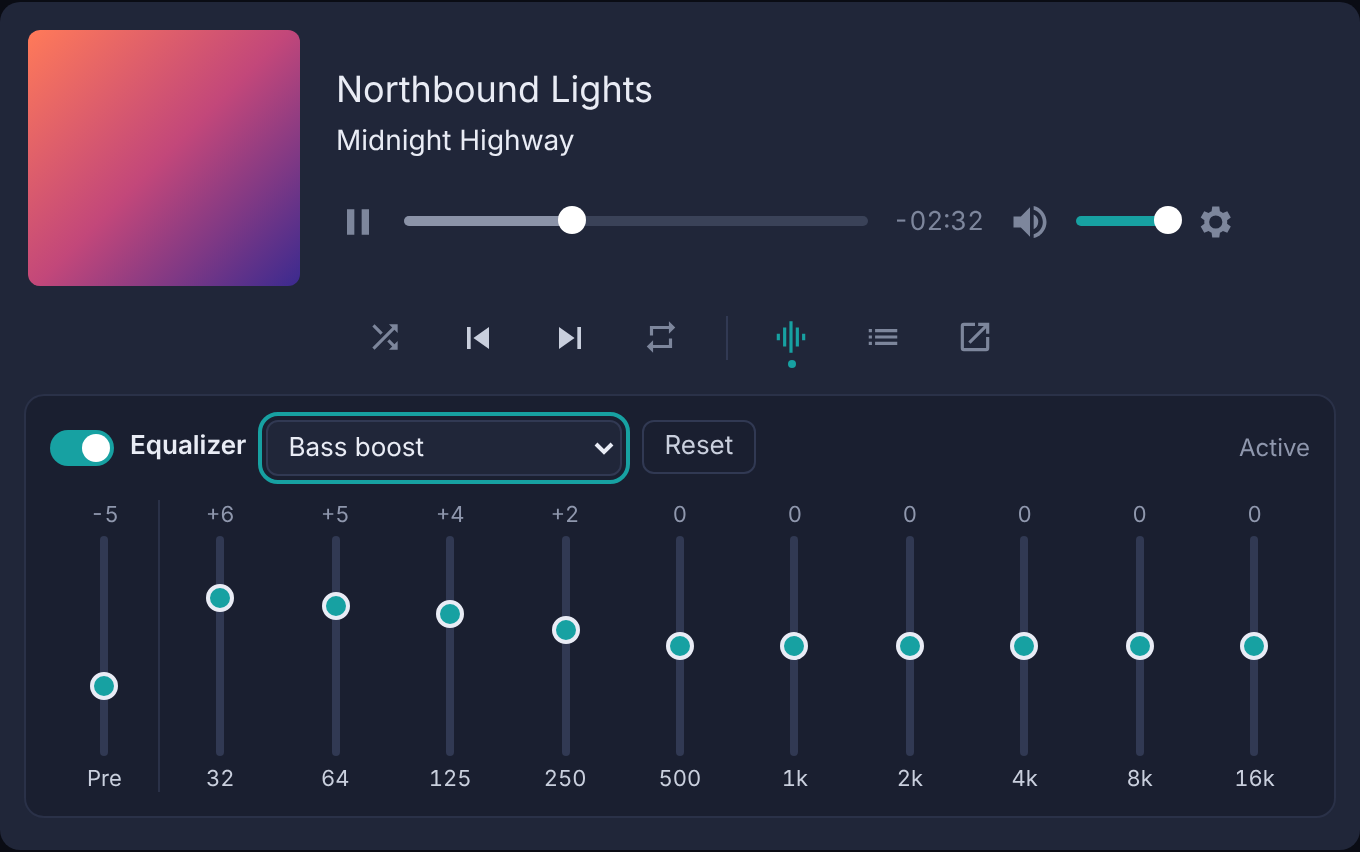
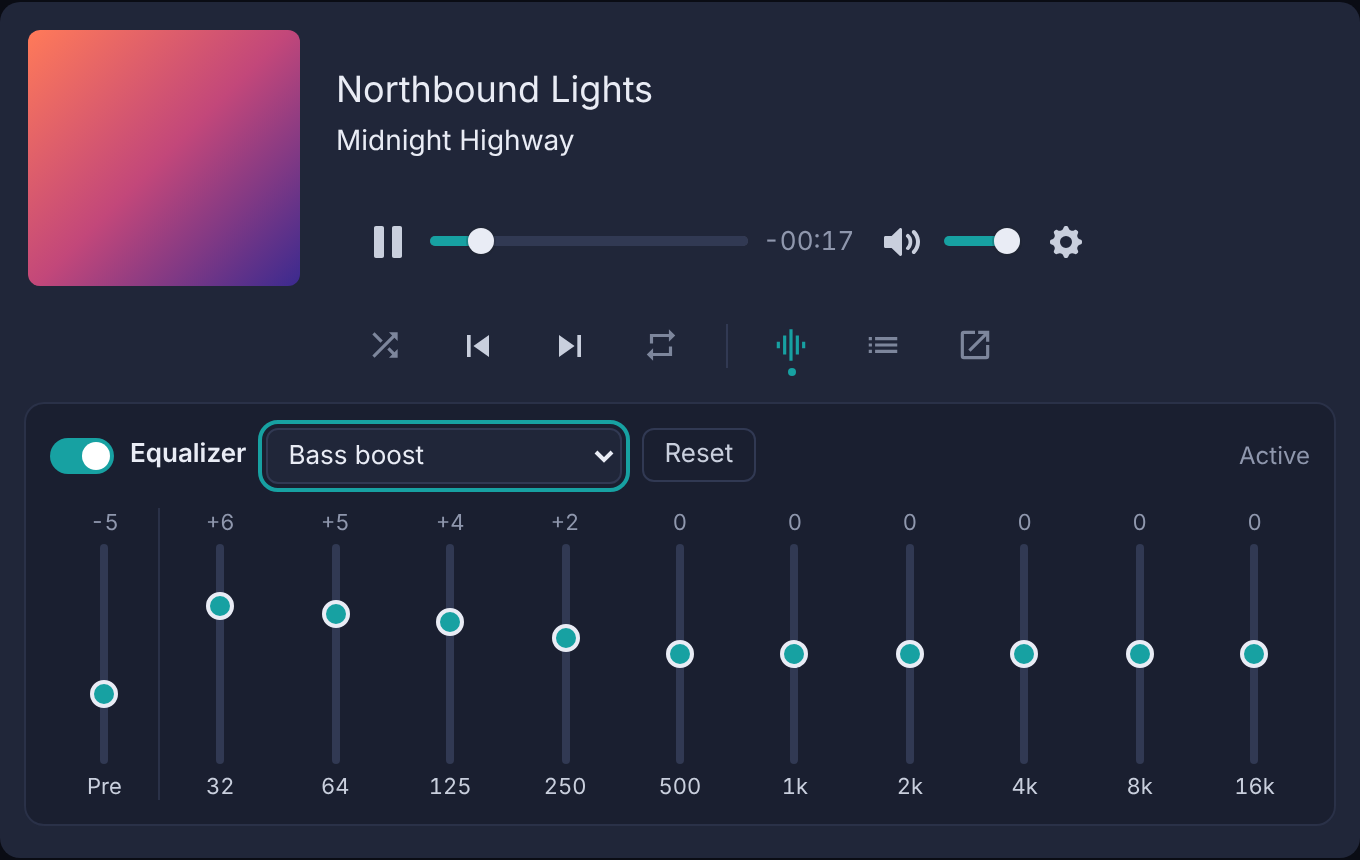
Restyle Icedrive's Plyr bar to the dark navy/teal palette
Plyr's defaults give a white bar with dark icons. A manifest-injected
stylesheet sets Plyr's CSS variables (with !important to beat Icedrive's
inline ones) on the audio preview only.

Claude-Session: https://claude.ai/code/session_01P4eB1zbGBRmucfayzPhFpr

diff --git a/assets/icedrive-player-theme.css b/assets/icedrive-player-theme.css
@@ -1,0 +1,34 @@
+/*
+ * Colours for Icedrive's own audio player (Plyr) so it matches the dark
+ * preview card and the extension's controls: navy bar, light icons and a
+ * teal progress bar. Icedrive sets a couple of these inline on the player,
+ * so !important is needed to win over them. Only touches the audio preview.
+ */
+#preview .audio-wrap .plyr--audio {
+  --plyr-color-main: #17a1a2 !important;
+  --plyr-audio-controls-background: #202639 !important;
+  --plyr-audio-control-color: #c9cfdd !important;
+  --plyr-audio-control-color-hover: #ffffff !important;
+  --plyr-audio-control-background-hover: rgba(255, 255, 255, 0.08) !important;
+  --plyr-range-fill-background: #17a1a2 !important;
+  --plyr-audio-range-track-background: #313953 !important;
+  --plyr-audio-progress-buffered-background: rgba(201, 207, 221, 0.22) !important;
+  --plyr-audio-range-thumb-active-shadow-color: rgba(23, 161, 162, 0.35) !important;
+  --plyr-range-thumb-background: #e9ecf5 !important;
+  --plyr-tooltip-background: #313953 !important;
+  --plyr-tooltip-color: #e9ecf5 !important;
+  --plyr-menu-background: #2a3148 !important;
+  --plyr-menu-color: #e9ecf5 !important;
+  --plyr-menu-arrow-color: #8f97ad !important;
+  --plyr-menu-back-border-color: #313953 !important;
+  --plyr-menu-back-border-shadow-color: transparent !important;
+  background: #202639 !important;
+  color: #c9cfdd !important;
+}
+#preview .audio-wrap .plyr--audio .plyr__controls {
+  background: #202639 !important;
+  color: #c9cfdd !important;
+}
+#preview .audio-wrap .plyr--audio .plyr__time {
+  color: #8f97ad !important;
+}

diff --git a/entrypoints/icedrive.content.ts b/entrypoints/icedrive.content.ts
@@ -1,3 +1,4 @@
+import '@/assets/icedrive-player-theme.css';
 import { artToDataUrl } from '@/lib/album-art';
 import { connectMediaSession } from '@/lib/media-session';
 import { mountInPageControls } from '@/lib/in-page-controls';

diff --git a/CHANGELOG.md b/CHANGELOG.md
@@ -15,6 +15,10 @@ changes under **Unreleased** as you go and rename it when you tag.
 - **Volume slider and mute** in the popup and mini player, synced with Icedrive's own volume.
 - **Track list and mini player button inside Icedrive**, so every option is available right under Icedrive's player without opening the popup.
 
+### Changed
+
+- **Icedrive's player bar matches its dark preview**: navy background, light icons and a teal progress bar instead of Plyr's default white bar with dark icons.
+
 ## [0.2.0] - 2026-11-05
 
 ### Added
